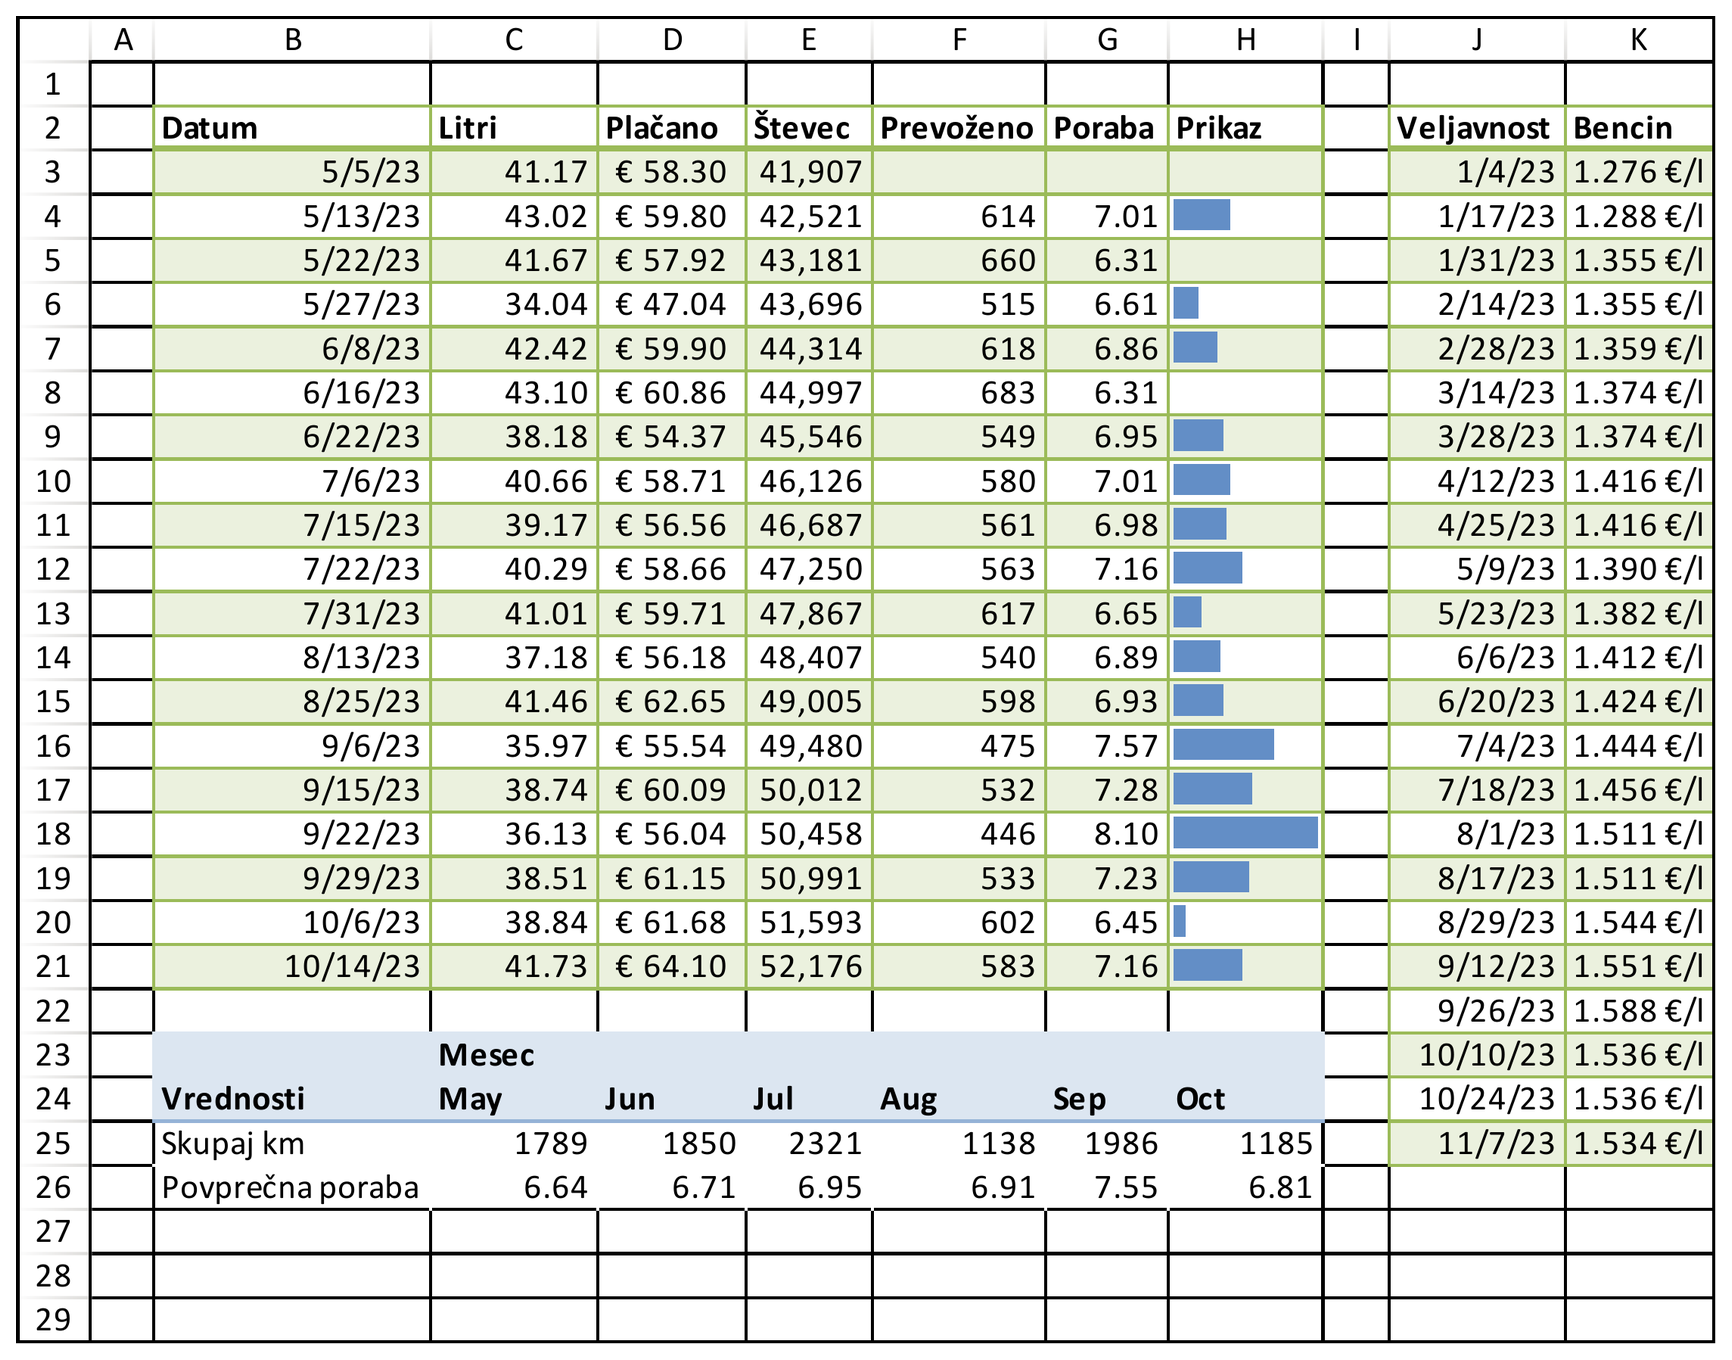
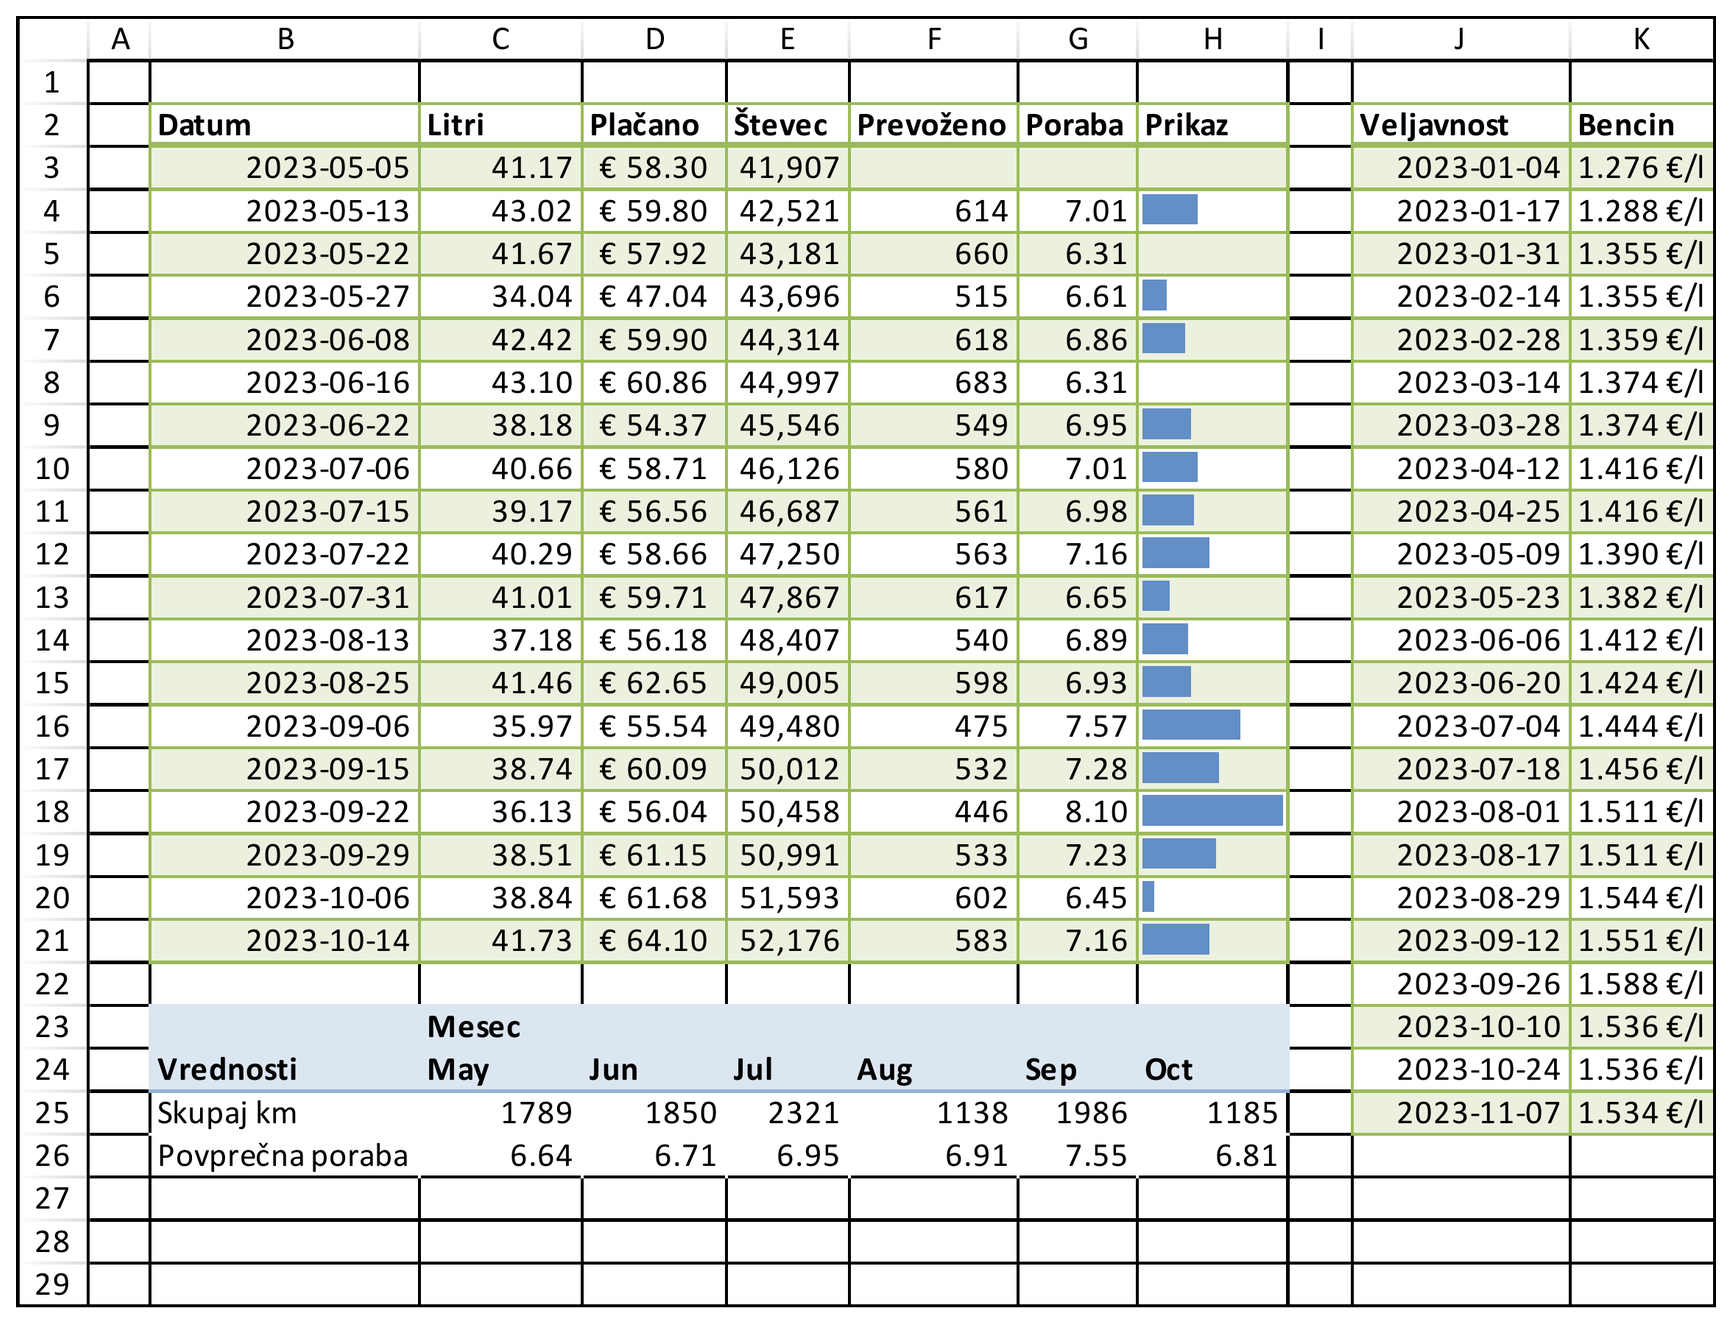
Zapiši datume po ISO in poimenuj tabeli Poraba in Cene

diff --git a/ucbenik/09-preglednice.md b/ucbenik/09-preglednice.md
@@ -173,7 +173,7 @@ Podatki so ločeni z vejicami, datoteka pa je kodirana v UTF-8.
 ## 3. naloga: poraba goriva
 
 V delovnem zvezku `poraba.xlsx` je zapisano, kdaj in koliko goriva smo natočili v avto in koliko je takrat kazal števec kilometrov.
-Točenja so v tabeli `poraba`, cene bencina pa v tabeli `cene`.
+Točenja so v tabeli `Poraba`, cene bencina pa v tabeli `Cene`.
 Predpostavite, da rezervoar vedno napolnimo do vrha.
 
 :::{figure-md} slika:poraba
@@ -185,7 +185,7 @@ Predpostavite, da rezervoar vedno napolnimo do vrha.
 1.  V stolpcu `Prevoženo` izračunajte, koliko kilometrov smo prevozili od prejšnjega točenja: od stanja števca odštejte stanje v prejšnji vrstici.
     Prva vrstica nima prejšnjega stanja, zato naj ostane prazna.
 2.  V stolpcu `Plačano` izračunajte, koliko smo plačali za gorivo: litre pomnožite s ceno, ki je veljala na dan točenja.
-    Ceno poiščite v tabeli `cene` s funkcijo `XLOOKUP`.
+    Ceno poiščite v tabeli `Cene` s funkcijo `XLOOKUP`.
     *Namig:* cena velja od datuma v stolpcu `Veljavnost` do naslednje spremembe, zato iščete zadnji datum, ki ni poznejši od datuma točenja; to določite s petim argumentom.
 3.  V stolpcu `Poraba` izračunajte porabo v litrih na 100 km po formuli $100 \cdot \frac{\text{litri}}{\text{prevoženo}}$.
     Prva vrstica naj tudi tu ostane prazna.
